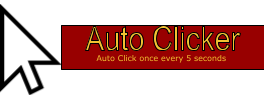
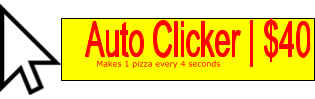
Rebranded into PizzaClicker Added pps, and amount of each power-up.

diff --git a/Game.py b/Game.py
@@ -4,8 +4,8 @@ from time import sleep
 
 
 def click():
-    value = int(money["text"])
-    money["text"] = f"{value + 1}"
+    value = float(wealth["text"])
+    wealth["text"] = f"{value + 1}"
 
 def rickroll():
     url = 'https://www.youtube.com/watch?v=x31tDT-4fQw'
@@ -13,37 +13,53 @@ def rickroll():
     webbrowser.get(chrome_path).open(url)
 
 def p1():
-    if int(money['text']) >= 50:
-        p1loss = int(money['text'])
-        money['text'] = f'{p1loss - 50}'
-        while True:
-            acvalue = int(money['text'])
-            money['text'] = f'{acvalue + 1}'
-            sleep(5)
+    if float(wealth['text']) >= 40:
+        p1loss = float(wealth['text'])
+        wealth['text'] = f'{p1loss - 40}'
+
+        ac_count = float(acamount['text'])
+        acamount['text'] = f'{ac_count + 1}'
+
+        ac_cps = float(pps['text'])
+        pps['text'] = f'{ac_cps + 0.25}'
+    else:
+        overdraft()
+
+def overdraft():
+    print('Not enough money!')
 
 
 window = tk.Tk()
-window.title('BC High Clicker')
+window.title('Click The Pizza 3000')
+window.geometry("800x1000")
 window.configure(bg='white')
 
 # Images
 picture = tk.PhotoImage(file='Logo.png')
-tutorial = tk.PhotoImage(file='Instructions.png')
+header = tk.PhotoImage(file='Title.png')
 price = tk.PhotoImage(file='Price.png')
 mouse = tk.PhotoImage(file='Power1.png')
 
-# Labels and Buttons
-instructions = tk.Label(image=tutorial)
-btn = tk.Button(image=picture, command=click)
-money = tk.Label(text='0',bg='white', fg='black', font='verdana')
-sign = tk.Label(image=price)
-P1 = tk.Button(image=mouse, bg='white', command=p1)
+# Labels
+title = tk.Label(image=header, bg='white')
+space = tk.Label(text="\n\n\n\n", bg='white')
+sign = tk.Label(image=price, bg='white')
+wealth = tk.Label(text='200', font=('Verdana', 69), bg='white', fg='black')
+pps = tk.Label(text='0', font=('Verdana', 40), bg='white', fg='black')
+acamount = tk.Label(text='0', font=('Verdana', 40), bg='white', fg='black')
+
+# Buttons
+logo = tk.Button(image=picture, command=click)
+autoclick = tk.Button(image=mouse, bg='white', command=p1)
 
 # Griding
-instructions.grid(row=0, column=0, sticky='w')
-btn.grid(row=2, column=0, sticky='w')
-sign.grid(row=0, column=1)
-money.grid(row=0, column=3)
-P1.grid(row=3, column=0, sticky='w')
+title.grid(row=0, column=0)
+pps.grid(row=1, column=0, sticky='n')
+logo.grid(row=2, column=0, sticky='nsew')
+sign.grid(row=1, column=1, sticky='e')
+wealth.grid(row=1, column=2, sticky='w')
+space.grid(row=3, column=0)
+autoclick.grid(row=4, column=0, sticky='e')
+acamount.grid(row=4, column=1, sticky='w')
 
 window.mainloop()
